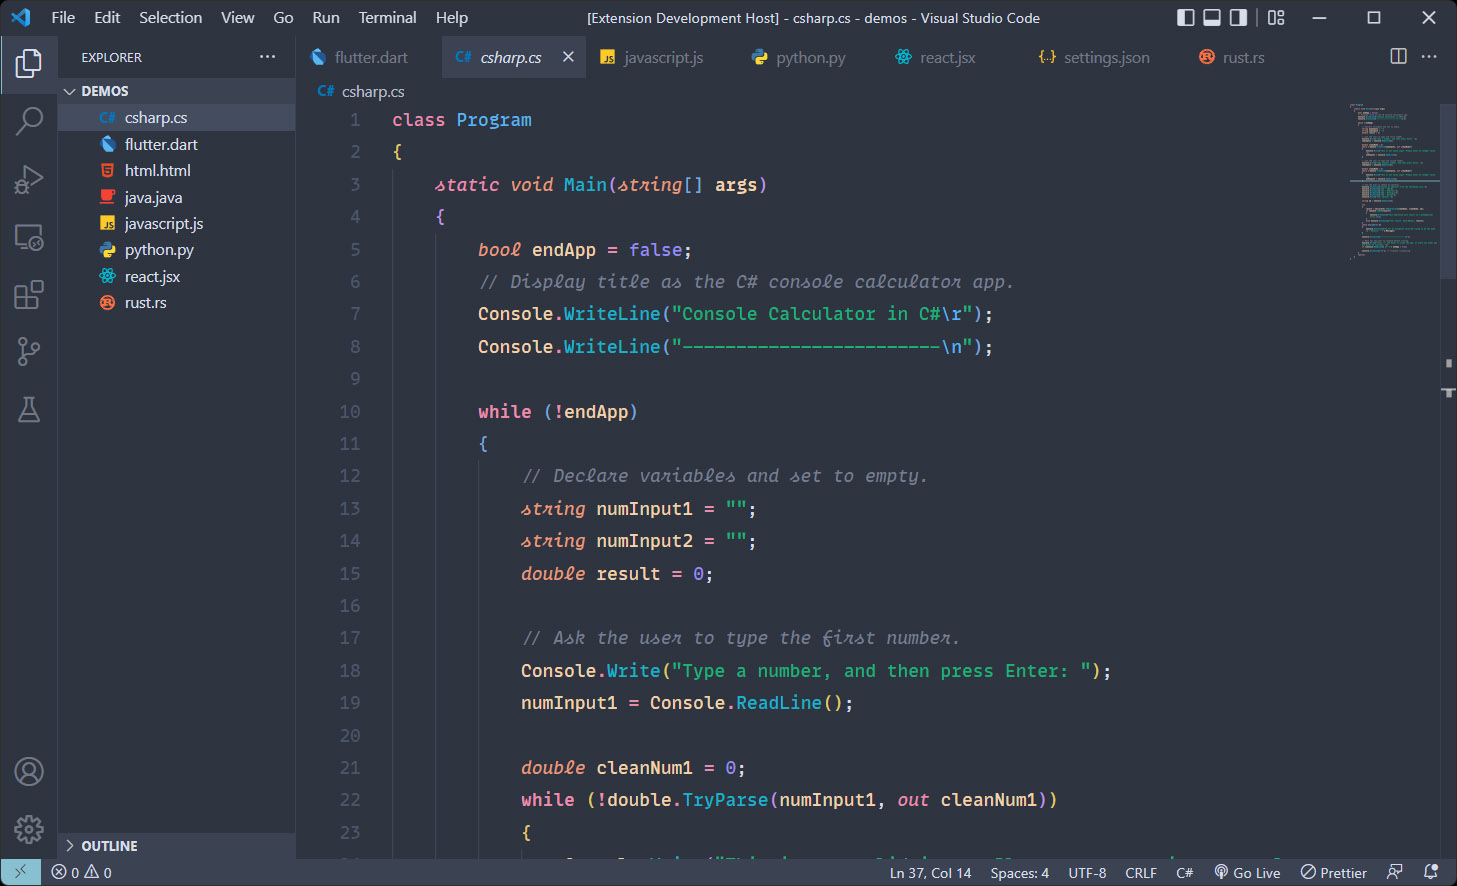
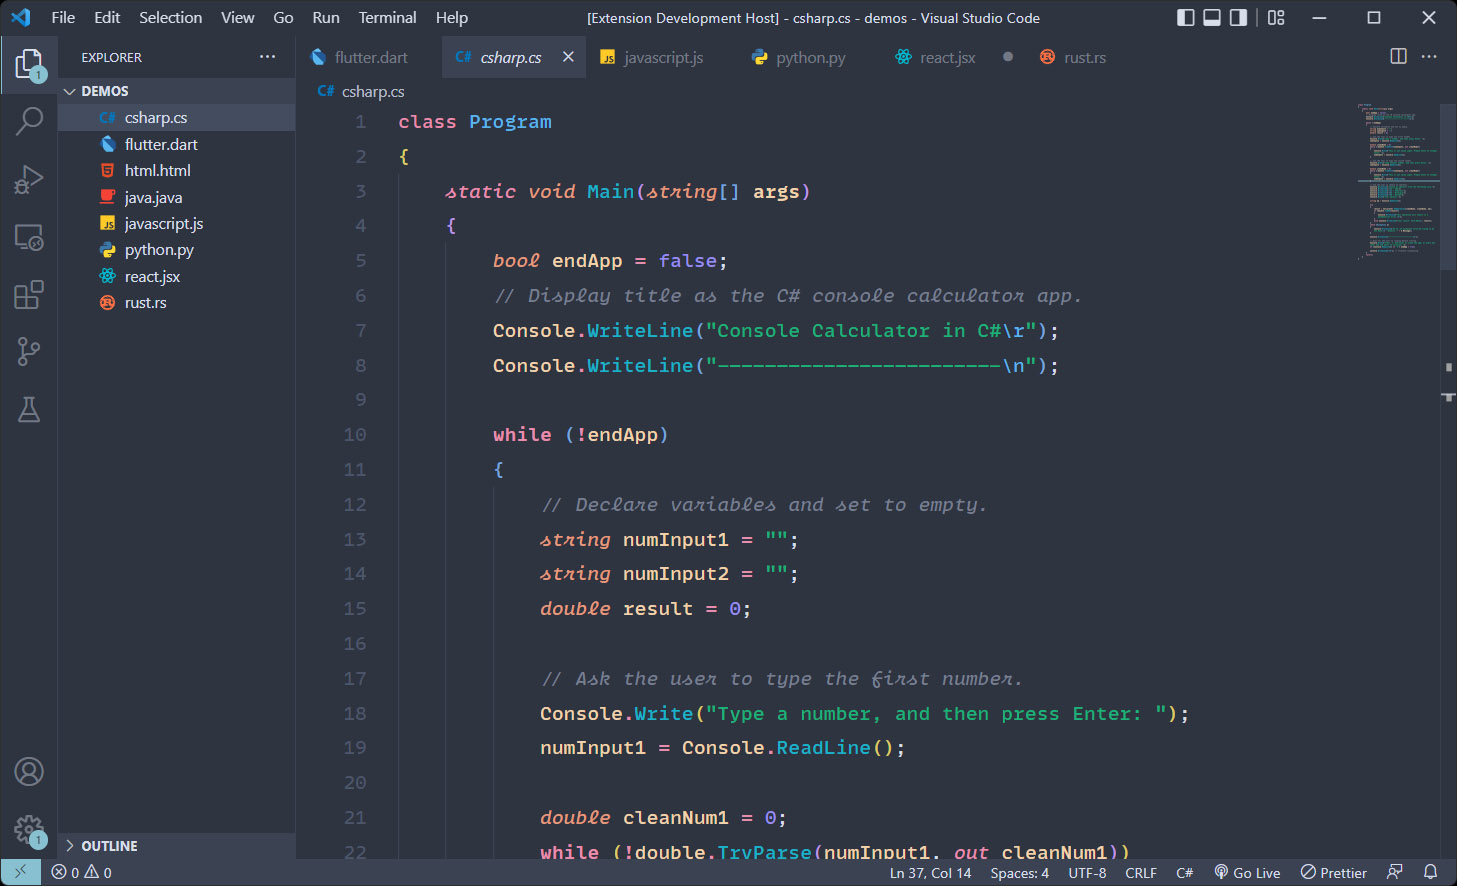
fix syntax not matching in variants

diff --git a/CHANGELOG.md b/CHANGELOG.md
@@ -4,6 +4,10 @@ All notable changes to the "arctis" extension will be documented in this file.
 
 Check [Keep a Changelog](http://keepachangelog.com/) for recommendations on how to structure this file.
 
+## [2.0.1] - 04-30-2022
+
+- Fix tag syntax on base theme. Did not update the same as others.
+
 ## [2.0.0] - 04-30-2022
 
 - Add Moon variant. Final version.
